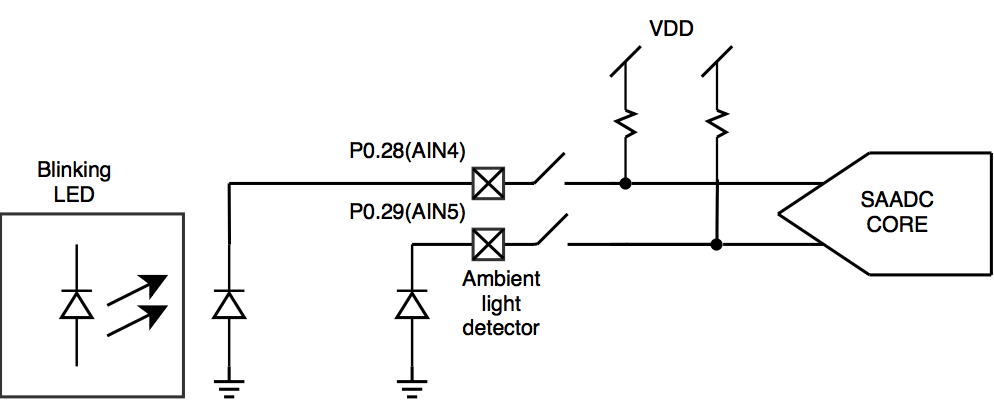
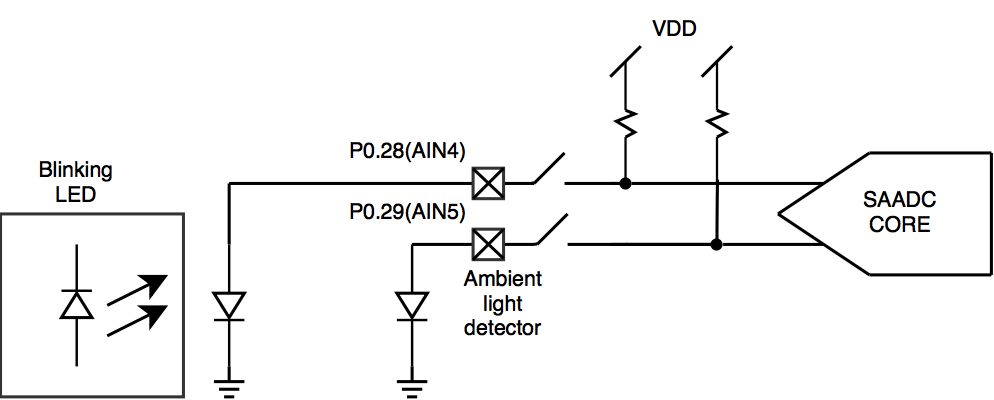
Eeeh, maybe I should put the diodes the right way around

diff --git a/README.md b/README.md
@@ -17,7 +17,9 @@ disconnected when SAADC is not sampling.
 
 ## Equipment
 - nRF52832 DK [PCA 10040](http://www.nordicsemi.com/eng/Products/Bluetooth-low-energy/nRF52-DK)
-- Photo sensitive diode (I'm using [TEPT 5600](https://www.elfadistrelec.no/no/sensor-for-omgivelseslys-570-nm-25-140-ua-vishay-tept-5600/p/17522425?channel=b2b&price_afd=4.69&gclid=CjwKCAjwssvPBRBBEiwASFoVd6O3ZSBKCkvYCGIcLTu5Lv50wTM1IL8qSL6yn2cJLDt1JOD39pFJgxoCI1gQAvD_BwE&gclsrc=aw.ds))
+- Photo sensitive diode (I'm using
+  [TEPT 5600](https://www.elfadistrelec.no/no/sensor-for-omgivelseslys-570-nm-25-140-ua-vishay-tept-5600/p/17522425?channel=b2b&price_afd=4.69&gclid=CjwKCAjwssvPBRBBEiwASFoVd6O3ZSBKCkvYCGIcLTu5Lv50wTM1IL8qSL6yn2cJLDt1JOD39pFJgxoCI1gQAvD_BwE&gclsrc=aw.ds),
+  which is actually a phototransistor, but that's details)
 
 ## Algorithm
 The best way to understand the algorithm is to read the code, because
